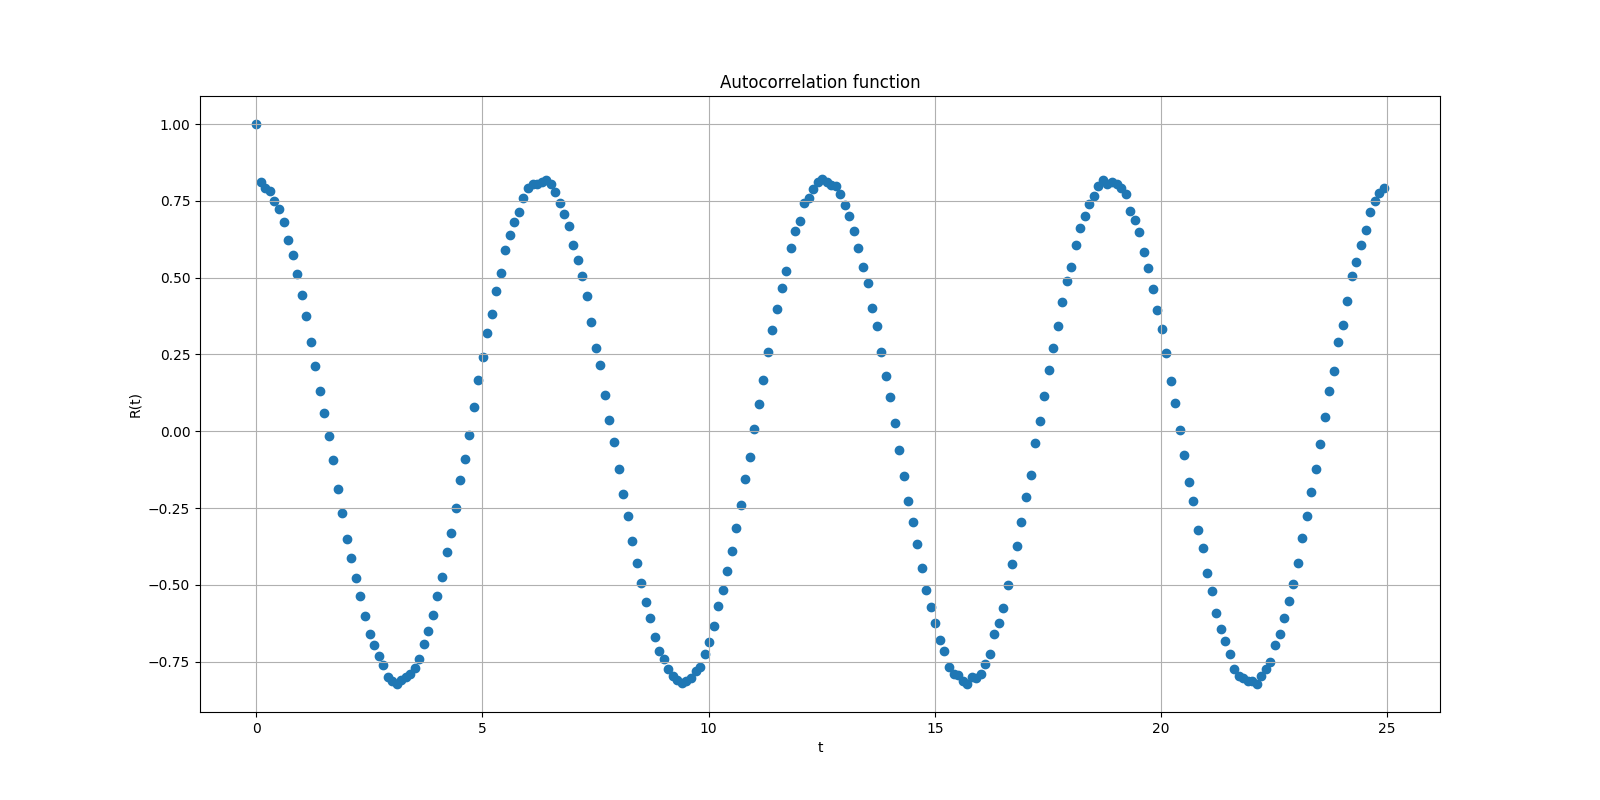
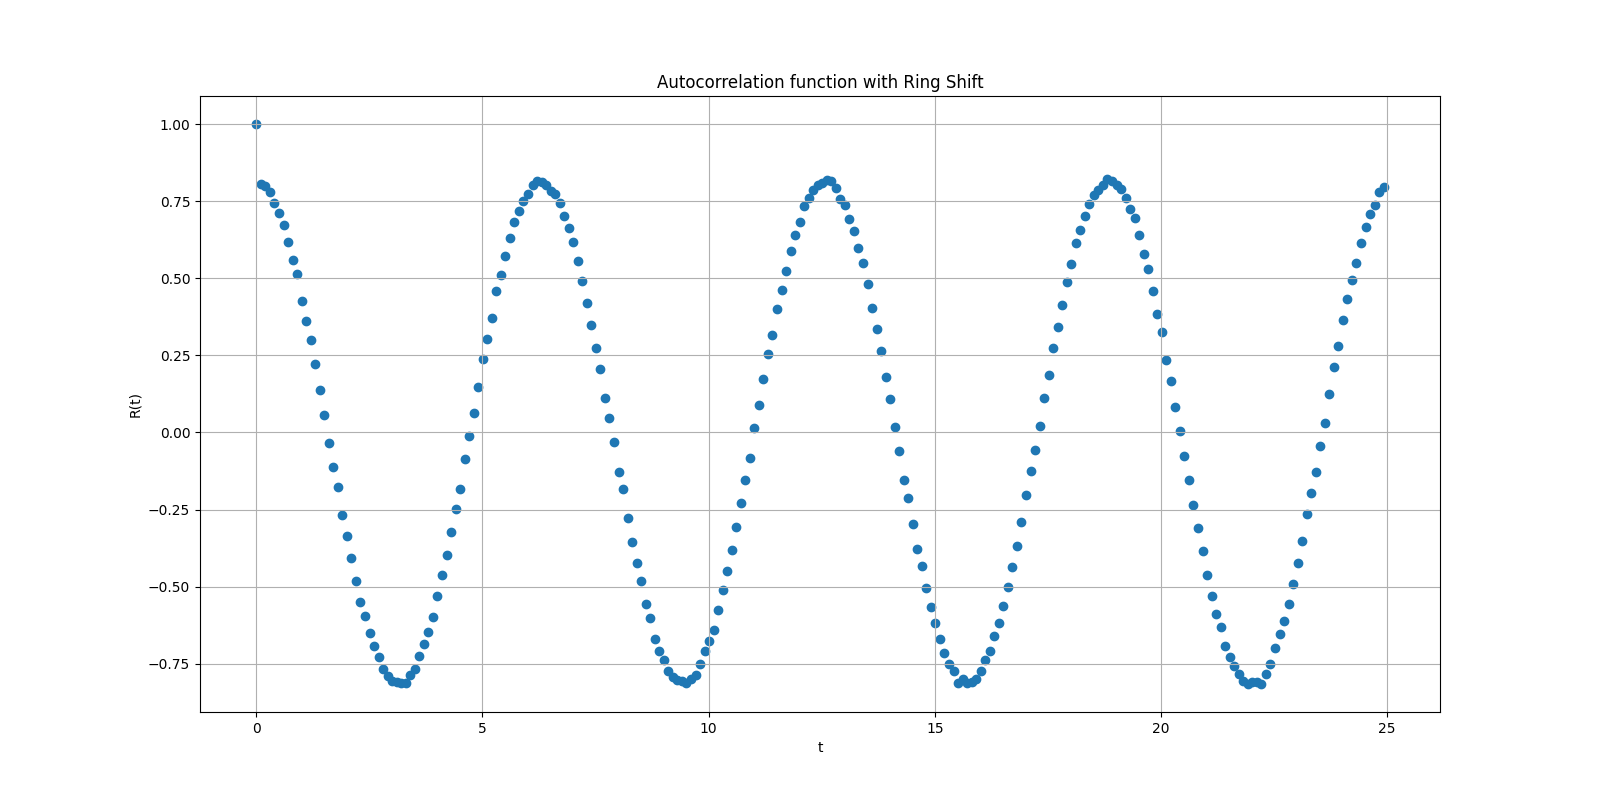
add FFT and plotter

diff --git a/main.py b/main.py
@@ -1,23 +1,16 @@
-import numpy as np
-import matplotlib.pyplot as plt
 from src.generator.signal_generator import SignalGenerator
 from src.filter.filter import Filter
 from src.distribution.distribution import DeviationDistribution
 from src.autocorrelation.autocorrelation import AutocorrelationFunction
+from src.plotter.plotter import Plotter
 
 
 class DigitalSignalProcessing:
-    # Постановка задачи:
-
-    # 1.    Реализовать программный модуль фильтрации входящего сигнала на основе скользящего окна;
-    # 2.    Найти временной ряд отклонений (дисперсий) и построить их функцию распределения;
-    # 3.    Построить автокорреляционную функцию временного ряда:
-    # •   Реализовать при помощи стандартного способа (кольцевого смещения);
-    # •   При помощи БПФ;
     def __init__(self):
+        self.__signal_sequence = None
+
         self.__signal_generator = None
         self.__filter = None
-        self.__signal_sequence = None
         self.__deviation_distribution = None
         self.__autocorrelation_function = None
 
@@ -29,46 +22,87 @@ class DigitalSignalProcessing:
         # args = list(map(float, input('Input the start time, count of discrete dots and step:\n').split()))
         args = [0, 1000, 0.1]
         self.__signal_sequence = self.__signal_generator.generate_noise_signal(*args)
-        self.plot_signal(self.__signal_sequence)
+        time = self.__signal_generator.get_parameters()['time']
+
+        Plotter.plot_data(time, self.__signal_sequence,
+                                 'Generated signal',
+                                 'time',
+                                 'x(t)',
+                                 './output/generated_signal.png')
 
         # TODO: add the choice for filtering method (now it's one, but in future we can add more)
         # args = list(map(float, input('Input the window size time:\n').split()))
         args = [15]
         self.__filter = Filter(*args)
         filtered_signal = self.__filter.filter(self.__signal_sequence)
-        self.plot_signal(filtered_signal, title="filtered_signal")
+        Plotter.plot_data(time, filtered_signal,
+                                 'Filtered signal',
+                                 'time',
+                                 'x(t)',
+                                 './output/filtered_signal.png')
 
-        self.__deviation_distribution = DeviationDistribution(self.__signal_sequence)
-        self.__deviation_distribution.get_deviation_sequence(filtered_signal)
-        self.__deviation_distribution.get_distribution_function()
-        self.__deviation_distribution.plot_distribution_function()
+
+        self.__deviation_distribution = DeviationDistribution(self.__signal_sequence, filtered_signal)
+        self.__deviation_distribution.calculate_distribution_function()
+        distr_func = self.__deviation_distribution.get_distribution_function()
+        Plotter.scatter_data(distr_func[:, 0], distr_func[:, 1],
+                                    'Distribution function',
+                                    'deviation x(t) - x_new(t)',
+                                    'F(x)',
+                                    './output/distribution.png')
 
         self.__autocorrelation_function = AutocorrelationFunction(self.__signal_sequence,
                                                                   self.__signal_generator.get_parameters()['time'])
         self.__autocorrelation_function.ring_shift()
-        self.__autocorrelation_function.plot_autocorrelation_function()
+        autocorr_func = self.__autocorrelation_function.get_autocorrelation_function()
+        Plotter.scatter_data(time[:len(time) // 4], autocorr_func[:len(autocorr_func) // 4],
+                                    'Autocorrelation function with Ring Shift',
+                                    't',
+                                    'R(t)',
+                                    './output/autocorrelation.png'
+                                    )
 
-    def plot_signal(self, signal_seq, title="generated_signal"):
-        # if not self.__signal_sequence.any():
-        #  raise NameError("You don't create the signal sequence")
 
-        plt.figure(figsize=(16,8))
-        plt.title(title)
-        plt.xlabel('time')
-        plt.ylabel('signal value')
-        plt.grid()
+        self.__autocorrelation_function.fast_fourier_transform()
+        autocorr_func = self.__autocorrelation_function.get_autocorrelation_function()
+        Plotter.scatter_data(time[:len(time) // 4], autocorr_func[:len(autocorr_func) // 4],
+                                    'Autocorrelation function with FFT',
+                                    't',
+                                    'R(t)',
+                                    './output/autocorrelation_FFT.png'
+                                    )
 
-        param = self.__signal_generator.get_parameters()
-        plt.plot(param['time'], signal_seq,
-                 label=f"A = {param['amplitude']}, w = {param['frequency']}, phi0 = {param['phase']}")
-        plt.legend(loc='upper right')
+    def save_to_file(self, filename, title, line_description, *data):
+      """ Method for saving the obtained data with following template:
+          {
+            Title
+            Line format description
+            Data
+          }
 
-        plt.savefig(f"./output/{title}.png")
+          example:
+          Source signal
+          t | x(t)
+          0 2
+          1 4
+          2 6
+          . . .
+      """
+      # TODO:
+      output_lines = []
+      #file = open(filename, 'w')
 
+      for column, data_sample in enumerate(data):
+        for row, elem in enumerate(data_sample):
+          output_lines[row][column] += str(elem) + ' '
+
+      print(output_lines)
+      #file.close()
 
 
 if __name__ == '__main__':
     dsp = DigitalSignalProcessing()
     dsp.start()
-
-
+    #time = [0, 1, 2, 3]
+    #x = [2, 4, 6, 8]
+    #dsp.save_to_file('./output/text.txt', 'test', 't | x(t)', time, x)

diff --git a/src/distribution/distribution.py b/src/distribution/distribution.py
@@ -4,24 +4,29 @@ import matplotlib.pyplot as plt
 
 class DeviationDistribution:
     # Calculate the deviation for signal
-    def __init__(self, true_signal):
+    def __init__(self, true_signal, processed_signal):
         self.__true_signal = true_signal
+        self.__processed_signal = processed_signal
         self.__deviation_sequence = None
         self.__distribution_function = []
 
-    def get_deviation_sequence(self, processed_signal):
+    def __calculate_deviation_sequence(self):
         sequence_length = len(self.__true_signal)
         self.__deviation_sequence = np.zeros(sequence_length)
 
         for i in range(sequence_length):
-            self.__deviation_sequence[i] = self.__true_signal[i] - processed_signal[i]
+            self.__deviation_sequence[i] = self.__true_signal[i] - self.__processed_signal[i]
 
-    def get_distribution_function(self):
+    def calculate_distribution_function(self):
         """ F(x) = P (X < x), where
             P (X < x) = count(X < x) / N where N - length of the signals sequence
         """
-        sorted_deviation = self.__deviation_sequence.sort(axis=0)
+        self.__calculate_deviation_sequence()
+        self.__deviation_sequence.sort(axis=0)
+
         sequence_length = len(self.__true_signal)
+
+        self.__distribution_function.append([0, 0]);
 
         prev_deviation = self.__deviation_sequence[0]
         count = 1
@@ -36,13 +41,6 @@ class DeviationDistribution:
 
         self.__distribution_function = np.array(self.__distribution_function)
 
-    def plot_distribution_function(self):
-        plt.figure(figsize=(16,8))
-        plt.title('Distribution function')
-        plt.xlabel('deviation - x')
-        plt.ylabel('F(x)')
-        plt.grid()
+    def get_distribution_function(self):
+      return self.__distribution_function
 
-        plt.scatter(self.__distribution_function[:, 0], self.__distribution_function[:, 1])
-
-        plt.savefig('./output/distribution.png')

diff --git a/src/autocorrelation/autocorrelation.py b/src/autocorrelation/autocorrelation.py
@@ -1,5 +1,6 @@
 import numpy as np
 import matplotlib.pyplot as plt
+from scipy.fftpack import fft, ifft
 
 
 class AutocorrelationFunction:
@@ -37,16 +38,30 @@ class AutocorrelationFunction:
             shifted_std = shifted_sequence.std()
             self.__autocorrelation_sequence[lag] = (mean_product - mean_original * mean_shifted) / (original_std * shifted_std)
 
-    def plot_autocorrelation_function(self):
-        plt.figure(figsize=(16,8))
-        plt.title('Autocorrelation function')
-        plt.xlabel('t')
-        plt.ylabel('R(t)')
-        plt.grid()
+    def fast_fourier_transform(self):
+      """
+        Autocorrelation function with using FFT (Fast Fourier Transform)
+        R(t)=Re[IFFT(|FFT(x)|^2)], where:
+          FFT - forward fast Fourier transform,
+          IFFT - inverse fast Fourier transform,
+          Re - real part of the complex number
+      """
+      # FFT(x)
+      calculation_result = fft(self.__signal_sequence)
 
-        plt.scatter(self.__time[:len(self.__time) // 4],
-                    self.__autocorrelation_sequence[:len(self.__autocorrelation_sequence) // 4])
-        plt.savefig('./output/autocorrelation.png')
+      # |FFT(x)|^2 = (sqrt(Re(x)^2 + Im(x)^2))^2 = Re(x)^2 + Im(x)^2
+      calculation_result = calculation_result.real ** 2 + calculation_result.imag ** 2
 
+      # Re[IFFT(|FFT(x)|^2)]
+      calculation_result = ifft(calculation_result).real
 
+      """
+        The result of the FFT returns C * R(t).
+        It is known that for the first element the correlation coefficient is equal to 1.
+        Then the coefficient C can be easily expressed as 1/R(0).
+      """
+      self.__autocorrelation_sequence = calculation_result / calculation_result[0]
+
+    def get_autocorrelation_function(self):
+      return self.__autocorrelation_sequence
 

diff --git a/src/plotter/plotter.py b/src/plotter/plotter.py
@@ -1,0 +1,32 @@
+import matplotlib.pyplot as plt
+
+
+class Plotter:
+  @staticmethod
+  def plot_data(x: any, y: any, title: str, xlabel: str, ylabel: str,
+                output_filename : str = None):
+      plt.figure(figsize=(16,8))
+      plt.title(title)
+      plt.xlabel(xlabel)
+      plt.ylabel(ylabel)
+      plt.grid()
+
+      plt.plot(x, y)
+
+      if output_filename:
+        plt.savefig(output_filename)
+
+  @staticmethod
+  def scatter_data(x: any, y: any, title: str, xlabel: str, ylabel: str,
+                   output_filename : str = None):
+      plt.figure(figsize=(16,8))
+      plt.title(title)
+      plt.xlabel(xlabel)
+      plt.ylabel(ylabel)
+      plt.grid()
+
+      plt.scatter(x, y)
+
+      if output_filename:
+        plt.savefig(output_filename)
+

diff --git a/src/filter/filter.py b/src/filter/filter.py
@@ -42,3 +42,4 @@ class Filter:
             filtered_signal[i] = window_sum / cur_window[2]
 
         return filtered_signal
+
